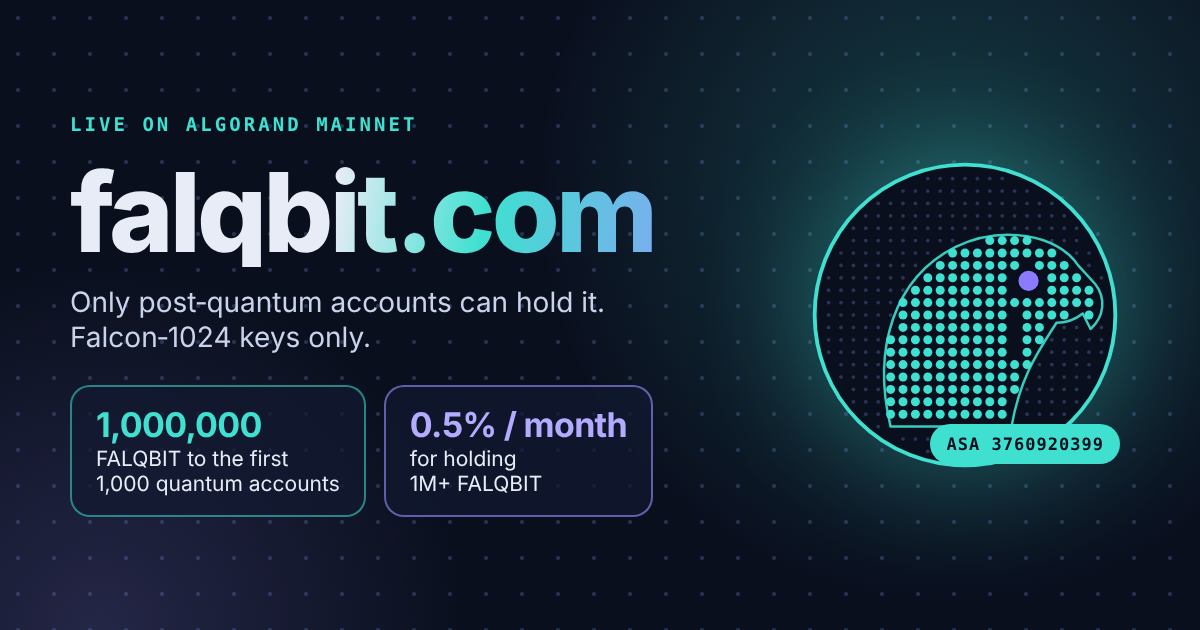
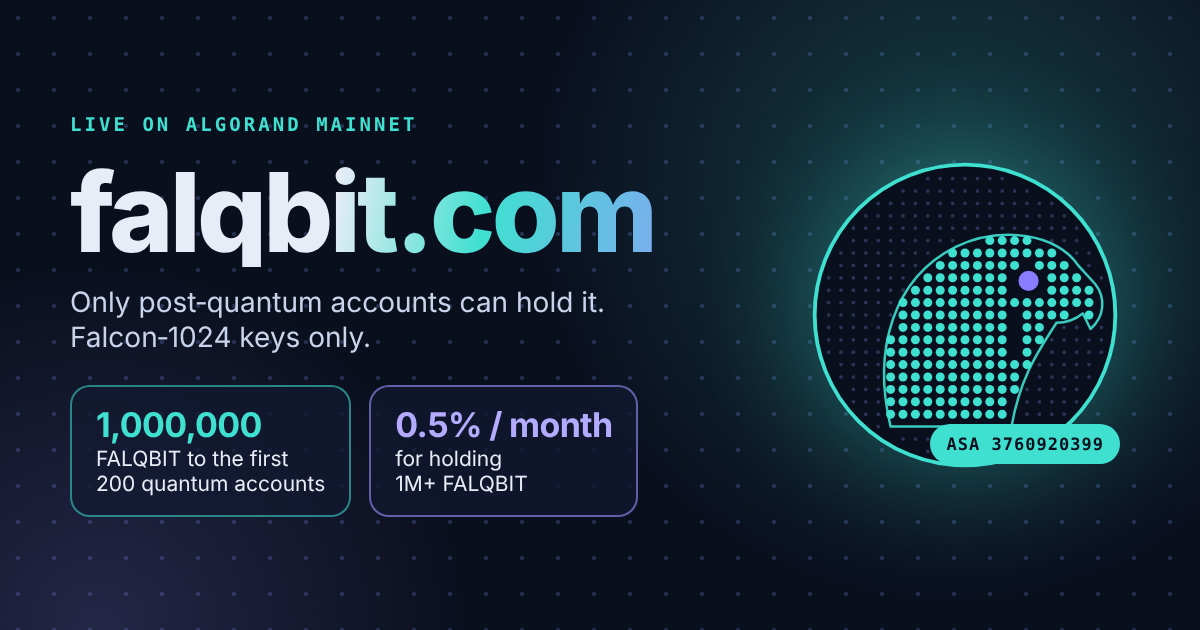
Add files via upload

Changed region(s): [[0.0617, 0.6032, 0.555, 0.8143]]

diff --git a/index.html b/index.html
@@ -6,7 +6,7 @@
 <meta property="og:type" content="website">
 <meta property="og:url" content="https://falqbit.com/">
 <meta property="og:title" content="FALQBIT · the token only post-quantum accounts can hold">
-<meta property="og:description" content="Live on Algorand MainNet. 1,000,000 FALQBIT for the first 1,000 quantum accounts, 0.5% a month for holders.">
+<meta property="og:description" content="Live on Algorand MainNet. 1,000,000 FALQBIT for the first 200 quantum accounts, 0.5% a month for holders.">
 <meta property="og:image" content="https://falqbit.com/og.png">
 <meta name="twitter:card" content="summary_large_image">
 <meta name="twitter:site" content="@FalQbit">
@@ -1122,14 +1122,15 @@ body { overflow-x: clip; }
       <article class="step">
         <span class="n">WELCOME DROP</span>
         <h3>1,000,000 FALQBIT to join</h3>
-        <p>The first 1,000 quantum accounts that unlock on the <a href="./unlock.html">unlock page</a> get 1,000,000 FALQBIT each, once per account. No purchase needed. Drops are paid in weekly rounds.</p>
-        <span class="lock on">First 1,000 accounts</span>
+        <p>The first 200 quantum accounts that unlock on the <a href="./unlock.html">unlock page</a> get 1,000,000 FALQBIT each. No purchase needed. Drops are paid in weekly rounds.</p>
+        <p class="fine">Keep at least 2 ALGO in the account on payout day. One drop per person: accounts made to farm drops are skipped.</p>
+        <span class="lock on">First 200 accounts</span>
       </article>
       <article class="step">
         <span class="n">HOLD-TO-EARN</span>
         <h3>0.5% a month for holding</h3>
         <p>Hold 1,000,000 FALQBIT or more and get 0.5% of your balance every month, sent straight to your wallet. Launch month (November 2026) pays 1%.</p>
-        <div class="eg"><span class="h">You hold</span><span class="h">You get / month</span><span>10,000,000</span><span>50,000</span><span>100,000,000</span><span>500,000</span><span>200,000,000+</span><span>1,000,000 max</span></div>
+        <div class="eg"><span class="h">You hold</span><span class="h">You get / month</span><span>1,000,000</span><span>5,000</span><span>10,000,000</span><span>50,000</span><span>100,000,000+</span><span>500,000 max</span></div>
         <p>No staking, nothing to claim. Your tokens never leave your wallet and you can sell anytime.</p>
         <span class="lock on">Min. 1,000,000 FALQBIT</span>
       </article>
@@ -1139,7 +1140,7 @@ body { overflow-x: clip; }
         <ul class="howpaid">
           <li><b>Every 25th</b>, we check balances on-chain.</li>
           <li>You get 0.5% of your <b>lowest balance since the 1st</b>, so hold all month for the full reward.</li>
-          <li><b>Max 1,000,000 FALQBIT per wallet</b> each month.</li>
+          <li><b>Max 500,000 FALQBIT per wallet</b> each month.</li>
         </ul>
         <p class="fine"><b>Monthly reward pool: 15,000,000 FALQBIT, shared by all holders together.</b> If everyone's 0.5% adds up to more, each payout shrinks in the same proportion. Project accounts and the pool don't take part.</p>
         <span class="lock off">Paid every 25th</span>
@@ -1169,7 +1170,7 @@ body { overflow-x: clip; }
     <div class="supply-top">
       <div><div class="big">10,000,000,000</div><p class="muted mono">total supply · 6 decimals · fixed</p></div>
     </div>
-    <div class="bar" role="img" aria-label="Allocation: 55% liquidity pool, 20% airdrops, 15% staking rewards, 5% project reserve, 5% team">
+    <div class="bar" role="img" aria-label="Allocation: 55% liquidity pool, 20% airdrops, 15% hold-to-earn, 5% project reserve, 5% team">
       <span style="width:55%; background: var(--cyan)"></span>
       <span style="width:20%; background: var(--violet)"></span>
       <span style="width:15%; background: var(--teal)"></span>
@@ -1177,17 +1178,17 @@ body { overflow-x: clip; }
       <span style="width:5%; background: var(--pale)"></span>
     </div>
     <ul class="legend">
-      <li><span class="sw" style="background: var(--cyan)"></span><span class="what">Liquidity pool</span><span class="pct">55%</span><span class="amt">5,500,000,000 · Tinyman, paired with ALGO</span></li>
-      <li><span class="sw" style="background: var(--violet)"></span><span class="what">Airdrops</span><span class="pct">20%</span><span class="amt">2,000,000,000 · 1,000,000 to each of the first 1,000 unlocked accounts</span></li>
-      <li><span class="sw" style="background: var(--teal)"></span><span class="what">Staking rewards</span><span class="pct">15%</span><span class="amt">1,500,000,000 · 0.5% a month to holders, max 15M a month</span></li>
-      <li><span class="sw" style="background: var(--slate)"></span><span class="what">Project reserve</span><span class="pct">5%</span><span class="amt">500,000,000 · contests and partners</span></li>
+      <li><span class="sw" style="background: var(--cyan)"></span><span class="what">Liquidity pool</span><span class="pct">55%</span><span class="amt">5,500,000,000 · Tinyman pool, paired with ALGO at launch</span></li>
+      <li><span class="sw" style="background: var(--violet)"></span><span class="what">Airdrops</span><span class="pct">20%</span><span class="amt">2,000,000,000 · 1M welcome drop for the first 200 accounts, the rest for campaigns</span></li>
+      <li><span class="sw" style="background: var(--teal)"></span><span class="what">Hold-to-earn</span><span class="pct">15%</span><span class="amt">1,500,000,000 · 0.5% a month to holders, 15M monthly pool, lasts 8+ years</span></li>
+      <li><span class="sw" style="background: var(--slate)"></span><span class="what">Project reserve</span><span class="pct">5%</span><span class="amt">500,000,000 · liquidity, contests and partners</span></li>
       <li><span class="sw" style="background: var(--pale)"></span><span class="what">Team</span><span class="pct">5%</span><span class="amt">500,000,000 · held in a quantum account</span></li>
     </ul>
     <h3 class="held-h">Where it is held</h3>
     <p class="muted" style="margin:0">Every allocation sits in its own Falcon-1024 account or in the pool. Check any balance on the explorer.</p>
     <ul class="proof held">
       <li><div class="what">Liquidity pool<span>Tinyman v2 pool, controlled by Tinyman's code</span></div><a href="https://lora.algokit.io/mainnet/account/CEQH5WNK3VFUVGZ6WET7GO2JLZVYY7BDPCN74LGWEUWC5WCMPYU7M7VCIA" target="_blank" rel="noopener">CEQH5W…M7VCIA</a></li>
-      <li><div class="what">Rewards<span>Airdrops and staking rewards (35%)</span></div><a href="https://lora.algokit.io/mainnet/account/V4J46SMHHEJHXRKXHA6MJKWFJMZIXQSMBPU5UC7W6BRUEYYB3SF7CPTC2Q" target="_blank" rel="noopener">V4J46S…CPTC2Q</a></li>
+      <li><div class="what">Rewards<span>Airdrops and hold-to-earn (35%)</span></div><a href="https://lora.algokit.io/mainnet/account/V4J46SMHHEJHXRKXHA6MJKWFJMZIXQSMBPU5UC7W6BRUEYYB3SF7CPTC2Q" target="_blank" rel="noopener">V4J46S…CPTC2Q</a></li>
       <li><div class="what">Team<span>Team allocation (5%)</span></div><a href="https://lora.algokit.io/mainnet/account/XMKDQFY55TLREPRIUG3WLWPUPKFW33WPV7GZF6U22EWOXYWHLKTPGBDT7Q" target="_blank" rel="noopener">XMKDQF…GBDT7Q</a></li>
       <li><div class="what">Project<span>Creator account and project reserve (5%)</span></div><a href="https://lora.algokit.io/mainnet/account/OCAF6EHCGLZ3SJDE54SL2TBKNDLIQAUQDM6CAFQAFZ7LNLERA4SBY73YIU" target="_blank" rel="noopener">OCAF6E…Y73YIU</a></li>
     </ul>
@@ -1270,7 +1271,7 @@ body { overflow-x: clip; }
       <li class="done"><span class="state">Done</span><h3>Name and identity</h3><p>FALQBIT, the lattice falcon, the project quantum account and this site.</p></li>
       <li class="done"><span class="state">Done</span><h3>TestNet</h3><p>Gate contract, Tinyman pool, swaps and the Pera unlock page, all tested.</p></li>
       <li class="done"><span class="state">Done</span><h3>Mainnet launch</h3><p>Token, gate contract and Tinyman pool, launched on 2 November 2026.</p></li>
-      <li class="done"><span class="state">Done</span><h3>Rewards live</h3><p>Welcome drops for the first 1,000 accounts and 0.5% a month for holders, paid on-chain every 25th.</p></li>
+      <li class="done"><span class="state">Done</span><h3>Rewards live</h3><p>Welcome drops for the first 200 accounts and 0.5% a month for holders, paid on-chain every 25th.</p></li>
       <li class="now"><span class="state">Next</span><h3>Verified everywhere</h3><p>Pera verification, logo on Tinyman and Vestige, more wallets and explorers.</p></li>
     </ol>
   </section>
@@ -1282,7 +1283,7 @@ body { overflow-x: clip; }
     </div>
     <div class="faq">
       <details><summary>How do I get a quantum account?</summary><p>In Pera Wallet, tap + to add an account and choose Add Quantum Account. You can also rekey an existing account to a Falcon-1024 key and keep the same address.</p></details>
-      <details><summary>How do the rewards work?</summary><p>Welcome drop: the first 1,000 quantum accounts that unlock get 1,000,000 FALQBIT each, once. Hold-to-earn: every 25th, wallets with at least 1,000,000 FALQBIT get 0.5% of their lowest balance since the 1st of the month, up to 1,000,000 per wallet. The monthly pool is 15,000,000 FALQBIT shared by all holders together. November 2026, the launch month, pays 1%. There is no staking: your tokens stay in your own account and you can sell at any time. Everything is paid from the public Rewards account.</p></details>
+      <details><summary>How do the rewards work?</summary><p>Welcome drop: the first 200 quantum accounts that unlock get 1,000,000 FALQBIT each, once per person. The account must hold at least 2 ALGO on payout day. Hold-to-earn: every 25th, wallets with at least 1,000,000 FALQBIT get 0.5% of their lowest balance since the 1st of the month, up to 500,000 per wallet. The monthly pool is 15,000,000 FALQBIT shared by all holders together. November 2026, the launch month, pays 1%. There is no staking: your tokens stay in your own account and you can sell at any time. Everything is paid from the public Rewards account.</p></details>
       <details><summary>Can I lose my FALQBIT?</summary><p>Nobody can take them: there is no clawback. If you send to a classic account, the transfer is refused and the tokens stay with you. As with any crypto, losing your recovery phrase means losing access.</p></details>
       <details><summary>What happens if I switch back to a classic key?</summary><p>Anyone can relock your holding. Your tokens stay yours, and you can unlock again after switching back to a Falcon key.</p></details>
       <details><summary>Why are the fees higher?</summary><p>A Falcon-1024 signature is much larger than a classic one, so Algorand charges about three minimum fees for it: around 0.003 ALGO per transaction.</p></details>

diff --git a/rewards.html b/rewards.html
@@ -84,13 +84,14 @@ import { algosdk, NETWORKS, client, loadConfig, pickNetwork, short } from "./fal
 // ---- rules -------------------------------------------------------------
 const DEC = 1_000_000n;                    // 6 decimals
 const WELCOME = 1_000_000n * DEC;          // 1,000,000 FALQBIT per new account
-const WELCOME_CAP = 1000;                  // first 1,000 accounts
+const WELCOME_CAP = 200;                   // first 200 accounts
+const WELCOME_MIN_ALGO = 2_000_000;        // the account must hold at least 2 ALGO on payout day
 // Hold-to-earn rules. November 2026 keeps the launch announcement (1%, 62.5M pool);
-// from December 2026: 0.5% of the lowest balance since the 1st, max 1M per wallet, 15M pool, paid on the 25th.
+// from December 2026: 0.5% of the lowest balance since the 1st, max 500k per wallet, 15M pool, paid on the 25th.
 const PAY_DAY = 25;
 function holdRules(m) {
   if (m <= "2026-11") return { rate: 100n, pool: 62_500_000n * DEC, perWallet: null, lowest: false };
-  return { rate: 50n, pool: 15_000_000n * DEC, perWallet: 1_000_000n * DEC, lowest: true };
+  return { rate: 50n, pool: 15_000_000n * DEC, perWallet: 500_000n * DEC, lowest: true };
 }
 const MIN_HOLD = 1_000_000n * DEC;         // hold at least 1,000,000 FALQBIT
 const BATCH = 16;                          // Algorand group limit
@@ -160,9 +161,13 @@ async function unlockedAccounts() {
 async function buildWelcome() {
   const [unlocked, hold, paid] = await Promise.all([unlockedAccounts(), holders(), paidWith(NOTE_WELCOME)]);
   const left = Math.max(0, WELCOME_CAP - paid.size);
-  const due = unlocked.filter((a) => !EXCLUDE.has(a) && !SKIP.has(a) && !paid.has(a) && hold.has(a) && !hold.get(a).frozen)
-    .slice(0, left).map((a) => ({ to: a, amount: WELCOME }));
-  $("p-summary").textContent = `${unlocked.length} unlocked accounts on chain · ${paid.size} already welcomed · ${left} welcome drops left · ${due.length} to pay now (${fq(WELCOME * BigInt(due.length))} FALQBIT).`;
+  const cand = unlocked.filter((a) => !EXCLUDE.has(a) && !SKIP.has(a) && !paid.has(a) && hold.has(a) && !hold.get(a).frozen);
+  // anti-farming: the account must hold at least 2 ALGO right now
+  const algo = await Promise.all(cand.map((a) => c.algodGet(`/v2/accounts/${a}?exclude=all`).then((j) => Number(j?.amount || 0)).catch(() => 0)));
+  const ok = cand.filter((a, i) => algo[i] >= WELCOME_MIN_ALGO);
+  const low = cand.length - ok.length;
+  const due = ok.slice(0, left).map((a) => ({ to: a, amount: WELCOME }));
+  $("p-summary").textContent = `${unlocked.length} unlocked accounts on chain · ${paid.size} of ${WELCOME_CAP} welcomed · ${left} left · ${due.length} to pay now (${fq(WELCOME * BigInt(due.length))} FALQBIT)` + (low ? ` · ${low} skipped automatically (under ${WELCOME_MIN_ALGO / 1e6} ALGO)` : "") + ".";
   return due;
 }
 
@@ -280,7 +285,7 @@ function setMode(m) {
   $("p-summary").textContent = 'Press "Check the chain" to build the list.';
   if (m === "welcome") {
     $("p-title").textContent = "Welcome drop";
-    $("p-rules").innerHTML = `<li>${fq(WELCOME)} FALQBIT to every quantum account the gate has unlocked.</li><li>Only the first ${WELCOME_CAP.toLocaleString()} accounts. Each account once, ever.</li><li>Project accounts and the pool are left out. Transfers carry the note "${NOTE_WELCOME}".</li>`;
+    $("p-rules").innerHTML = `<li>${fq(WELCOME)} FALQBIT to every quantum account the gate has unlocked.</li><li>Only the first ${WELCOME_CAP.toLocaleString()} accounts. Each account once, ever. The account must hold at least ${WELCOME_MIN_ALGO / 1e6} ALGO; others are skipped automatically and can get it in a later round.</li><li>Project accounts and the pool are left out. Transfers carry the note "${NOTE_WELCOME}".</li>`;
   } else {
     $("p-title").textContent = "Hold-to-earn";
     const R = holdRules(month);
